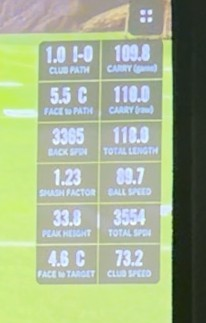
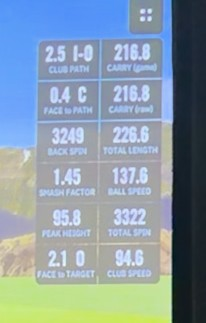
test(evals): use a solid strike for the golf sim session

diff --git a/evals/workspace/golf/sessions/2026-10-30-1815-5e1f0a2c/session.md b/evals/workspace/golf/sessions/2026-10-30-1815-5e1f0a2c/session.md
@@ -1,6 +1,6 @@
 # Session 2026-10-30-1815-5e1f0a2c
 
-- Source: IMG_4761.MOV
+- Source: IMG_4762.MOV
 - Captured: 2026-10-30 18:15 UTC
 - Checksum: 5e1f0a2c00000000000000000000000000000000000000000000000000000000
 - Pipeline: eval
@@ -19,12 +19,12 @@
 - The skeleton lines on the sequence sheet are a pose estimate; trust the photo over the lines.
 - Ball px/frame, Start dir and Grade come from following the ball in the swing video. Ball px/frame is how fast it leaves the club, in pixels per video frame, so compare it only within this session. Grade compares it to the session median: good is near the median or faster, poor is well under it, fair is between; `ball.json` in each swing folder has the thresholds. Start dir is sideways over up: negative starts left of the camera line, positive right. A `lost:` track says why the ball could not be followed, and that swing has no grade.
 
-Ball flight: 1 good, 1 fair, 0 poor, 0 not tracked (median ball speed 20.6 px/frame)
+Ball flight: 2 good, 0 fair, 0 poor, 0 not tracked (median ball speed 23.4 px/frame)
 
 | Swing | Impact | Strength | Hand speed peak | Ball px/frame | Start dir | Grade | Track |
 |---|---|---|---|---|---|---|---|
-| swing-01 | 58.92s | 0.81 | -12ms | 21.4 | 0.04 | good | ok |
-| swing-02 | 1:24.4 | 0.44 | +30ms | 19.8 | -0.02 | fair | ok |
+| swing-01 | 2:25.4 | 0.83 | -8ms | 24.1 | 0.03 | good | ok |
+| swing-02 | 3:12.3 | 0.41 | +25ms | 22.7 | -0.01 | good | ok |
 
 ## Sim
 
@@ -32,5 +32,5 @@ The numbers below are read off the simulator screen. A blank cell means the scre
 
 | Swing | Club mph | Ball mph | Smash | Carry raw yd | Carry game yd | Total yd | Peak ft | Back spin | Total spin | Path | Face to path | Face to target |
 |---|---|---|---|---|---|---|---|---|---|---|---|---|
-| swing-01 | 73.2 | 89.7 | 1.23 | 110.0 | | | 33.8 | 3365 | 3554 | 1.0 I-O | 5.5 C | 4.6 C |
+| swing-01 | 94.6 | 137.6 | 1.45 | 216.8 | | 226.6 | 95.8 | 3249 | 3322 | 2.5 I-O | 0.4 C | 2.1 O |
 | swing-02 | | | | | | | | | | | | |
